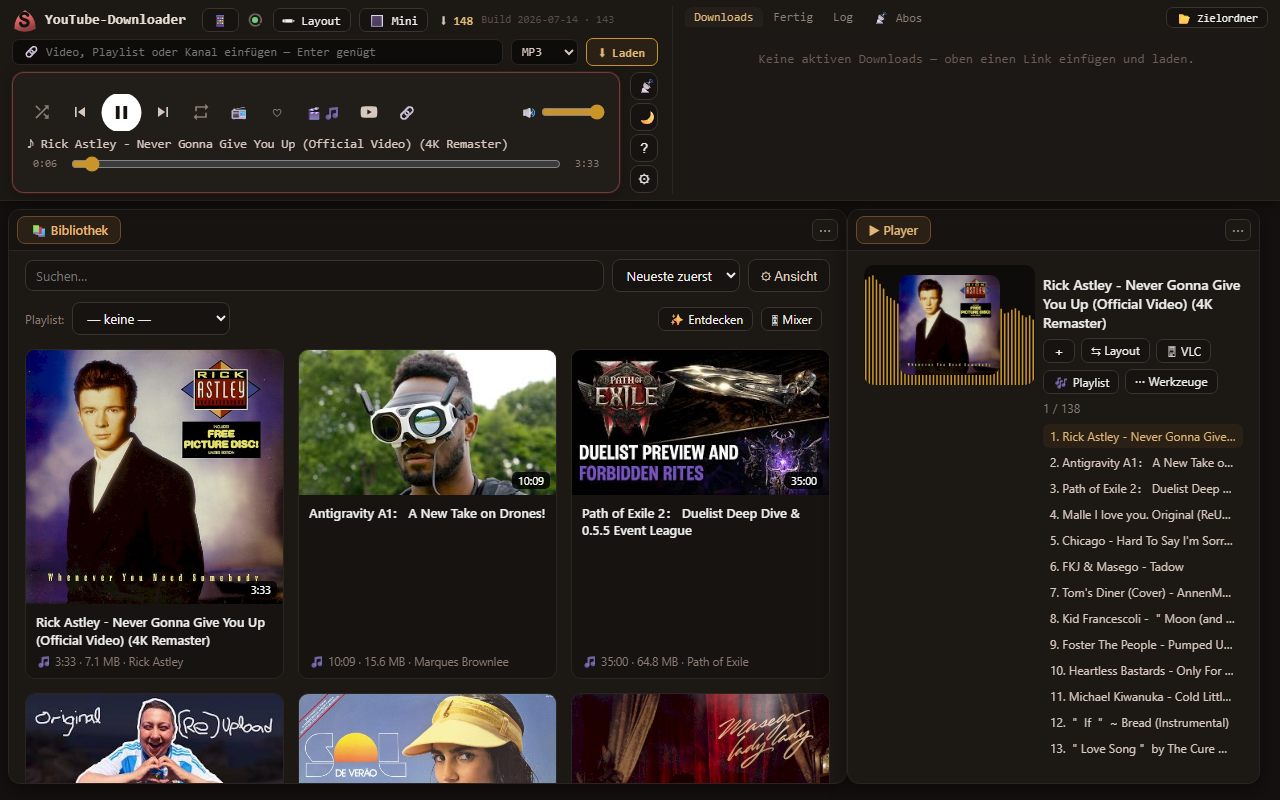
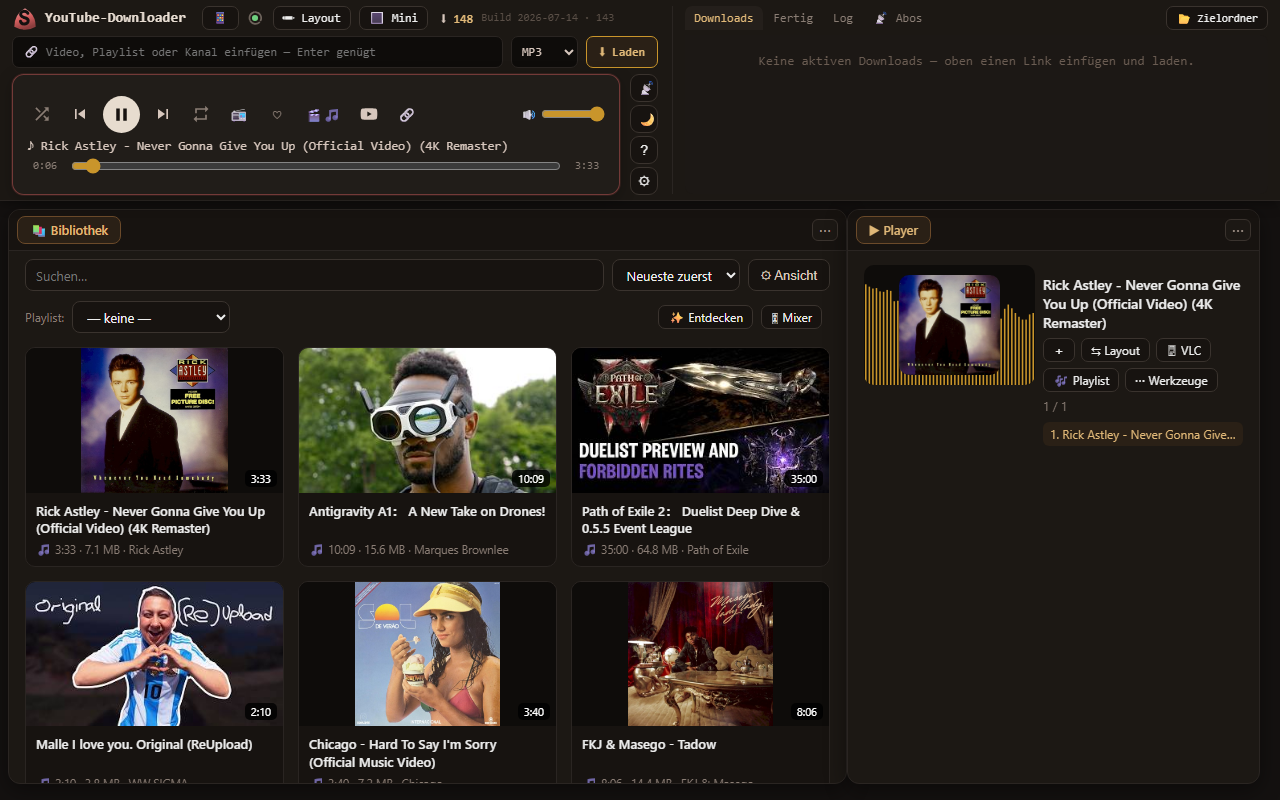
Einheitliche Groessen: Kacheln, Titel und Bedienelemente
JB am Screenshot: "wieso haben nicht alle videos die gleiche hoehe? Wieso
sind einige tooltips groesser als andere? Einheitlichkeit ist super wichtig!"

GEMESSEN mit Playwright gegen die laufende App, bevor etwas geaendert wurde:
Kachelbilder waren 142 ODER 250 px hoch, Titel 17 ODER 34 px, und 32
Bedienelemente hatten ELF verschiedene Hoehen (20 bis 37 px).

URSACHE bei den Kacheln: das aspect-ratio:16/9 am Bildrahmen hat nie
gegriffen. Die Kachel ist ein Spalten-Flex, ihre Kinder haben damit
min-height:auto, und ein quadratisches Album-Bild gewinnt gegen das
Seitenverhaeltnis. Die 16:9-Vorschaubilder sahen nur richtig aus, weil ihre
eigene Form zufaellig passte - der Fehler war immer da, nur unsichtbar.
flex:none + min-height:0 geben dem Seitenverhaeltnis die Entscheidung zurueck.

URSACHE bei den Bedienelementen: die Hoehe entstand aus Polsterung plus
Zeilenhoehe statt gesetzt zu sein, deshalb unterschieden sich nebeneinander
liegende Knoepfe um einen Pixel. Jetzt zwei Tokens (--pille-h 24,
--feld-h 32) und fuenf bewusste Gruppen statt elf zufaelliger.

DANACH gemessen: Bilder alle 142, Titel alle 34, Kacheln alle 217 px.

Waechter test_einheitliche_groessen prueft die Quelle (browserfrei, laeuft im
Gate mit). Vier rote Gegenproben gefahren, Datei jeweils byte-genau
zurueckgeschrieben. Die erste Gegenprobe war GRUEN, obwohl die Zusage weg
war: der Waechter las den erklaerenden Kommentar INNERHALB der Regel als
Deklaration. Deshalb schneidet er Kommentare jetzt heraus.
[…]

diff --git a/System/tests/test_einheitliche_groessen.py b/System/tests/test_einheitliche_groessen.py
@@ -1,0 +1,154 @@
+# -*- coding: utf-8 -*-
+"""Waechter: gleiche Dinge sind gleich gross (JB 08.09.2026).
+
+JB am Screenshot: *»wieso haben nicht alle videos die gleiche hoehe? Wieso sind
+einige tooltips groesser als andere? Einheitlichkeit ist super wichtig!«*
+
+GEMESSEN im laufenden Programm, bevor etwas geaendert wurde:
+  * Kachelbilder 142 px ODER 250 px hoch — ein quadratisches Album-Bild machte die
+    Kachel 108 px hoeher als ein 16:9-Vorschaubild. Das `aspect-ratio:16/9` am
+    Rahmen hat NIE gegriffen: `.kachel` ist ein Spalten-Flex, seine Kinder haben
+    damit `min-height:auto`, und der Inhalt gewinnt gegen das Seitenverhaeltnis.
+    Die 16:9-Bilder sahen nur richtig aus, weil ihre eigene Form zufaellig passte.
+  * Kacheltitel 17 px ODER 34 px — ohne Mindesthoehe rutscht die Infozeile je nach
+    Titellaenge um eine Zeile.
+  * 32 sichtbare Bedienelemente in ELF Hoehen: 20, 21, 22, 24, 25, 26, 28, 30, 31,
+    33, 37 px. Nebeneinander liegende Knoepfe unterschieden sich um einen Pixel,
+    weil die Hoehe aus Polsterung plus Zeilenhoehe entstand statt gesetzt zu sein.
+
+Danach: Bilder alle 142, Titel alle 34, Kacheln alle 217 px; Bedienelemente in fuenf
+Gruppen, und die fuenf sind Absicht (Pillen 24, Panel-Reiter 28, Transport 30 und 37
+fuer den Abspiel-Knopf, Bedienzeile 32).
+
+Geprueft wird hier die QUELLE, nicht das Erzeugnis: ein Waechter, der den Browser
+braucht, liefe im Gate nicht mit. Die Zahlen oben stammen aus einer echten Messung
+mit Playwright gegen die laufende App.
+
+ROTE GEGENPROBE (08.09.2026, jede an der echten Datei gefahren und byte-genau
+zurueckgeschrieben - Pruefsumme vorher/nachher gleich):
+  * `flex:none;min-height:0` aus `.thumbwrap` entfernt  => Bild-Test faellt
+  * `min-height:2.64em` aus `.ktitel` entfernt          => Titel-Test faellt
+  * `height:33px` in `.tog` zurueckgeschrieben          => Token-Test faellt
+  * Token `--feld-h` geloescht                          => Token-Existenz faellt
+Die erste Fassung dieser Gegenprobe war GRUEN, obwohl die Zusage weg war: der
+Waechter las den erklaerenden Kommentar INNERHALB der Regel als Deklaration.
+Siehe `_ohne_kommentar` - ein Waechter, der die Erklaerung statt der Sache prueft,
+meldet Gesundheit, die es nicht gibt.
+"""
+import os
+import re
+
+HIER = os.path.dirname(os.path.abspath(__file__))
+OBERFLAECHE = os.path.join(os.path.dirname(HIER), "oberflaeche.py")
+
+# Klassen, deren Hoehe aus den Tokens kommen MUSS. Wer hier eine feste Pixelhoehe
+# einträgt, baut die naechste Ungleichheit.
+TOKEN_PFLICHT = (".tog", ".cmd-dl", ".cmd-qual", ".cmd-url", ".btn.mini",
+                 ".dlbox-tab", "#libsuche", "#libsort", "#plsel")
+
+
+def _quelle() -> str:
+    with open(OBERFLAECHE, encoding="utf-8") as f:
+        return f.read()
+
+
+def _ohne_kommentar(rumpf):
+    """Nur die Deklarationen einer Regel - Kommentare heraus.
+
+    Die dritte Gegenprobe war GRUEN, obwohl ich `min-height:0` aus `.thumbwrap`
+    entfernt hatte: der erklaerende Kommentar steht INNERHALB der geschweiften
+    Klammern und schreibt »min-height:0 und flex:none geben dem Seitenverhaeltnis
+    die Entscheidung zurueck«. Der Waechter las meinen eigenen Fliesstext als
+    Zusage. Ein Waechter, der die Erklaerung statt der Sache prueft, ist blind.
+    """
+    return re.sub(r"/\*.*?\*/", "", rumpf, flags=re.S)
+
+
+def _selektor(roh):
+    """Der reine Selektor einer Regel - ohne den Kommentar, der davor steht.
+
+    Der Regel-Ausdruck laesst im Selektor Zeilenumbrueche zu (mehrzeilige
+    Selektorlisten gibt es wirklich). Damit wandert aber auch ein `/* ... */`
+    ueber der Regel in den Selektor, und der exakte Vergleich schlaegt fehl:
+    `.ktitel` hiess fuer den Waechter `/* Immer zwei Zeilen hoch ... */ .ktitel`.
+    Gefunden hat das erst die Messung, welche Selektoren wirklich ankommen.
+    """
+    return roh.split("*/")[-1].strip()
+
+
+def _regel(text, klasse):
+    """Der Rumpf der GRUNDREGEL dieser Klasse - der Regel, deren Selektor genau sie ist.
+
+    Drei Fallen lagen hier hintereinander, jede fand erst eine Messung:
+
+    1. Teilstring statt Wortgrenze: die erste Fassung suchte `".ktitel" in selektor`
+       und traf `#tv .tv-ktitel` aus dem Fernsehmodus - sie pruefte die falsche
+       Regel und meldete einen Mangel, den es nicht gab.
+    2. Erste statt Grund-Regel: danach traf sie `.kacheln.kompakt .ktitel`, weil die
+       Kompakt-Ansicht frueher in der Datei steht. Diese Regel setzt nur eine
+       Schriftgroesse; die Hoehen-Zusagen stehen in der Grundregel weiter unten.
+    3. Kommentar im Selektor: siehe `_selektor`.
+
+    Deshalb: erst die Regel mit dem exakt gleichen Selektor, sonst die erste, die
+    die Klasse ueberhaupt wortgenau traegt.
+    """
+    muster = re.compile(r"(?<![\w.#-])" + re.escape(klasse) + r"(?![\w-])")
+    passend = [(_selektor(tr.group(1)), _ohne_kommentar(tr.group(2)))
+               for tr in re.finditer(r"([^{}\n][^{}]*)\{([^}]*)\}", text)
+               if muster.search(tr.group(1))]
+    for selektor, rumpf in passend:
+        if selektor == klasse:
+            return rumpf
+    return passend[0][1] if passend else ""
+
+
+def test_die_groessen_tokens_gibt_es():
+    """Zwei Groessen, an einer Stelle definiert — nicht elf ueber die Datei verstreut."""
+    t = _quelle()
+    assert "--pille-h:" in t, "Token fuer die Pillen-Hoehe fehlt"
+    assert "--feld-h:" in t, "Token fuer die Feld-Hoehe fehlt"
+
+
+def test_kachelbild_haelt_sein_seitenverhaeltnis():
+    """`aspect-ratio` allein genuegt im Flex-Kind NICHT — min-height:0 muss dazu."""
+    rumpf = _regel(_quelle(), ".thumbwrap")
+    assert "aspect-ratio" in rumpf, ".thumbwrap braucht ein Seitenverhaeltnis"
+    assert "min-height:0" in rumpf.replace(" ", ""), (
+        "Ohne min-height:0 gewinnt der Bildinhalt gegen das Seitenverhaeltnis — "
+        "quadratische Album-Bilder machen die Kachel dann 108 px hoeher")
+    assert "flex:none" in rumpf.replace(" ", ""), (
+        "Ohne flex:none darf der Rahmen als Flex-Kind wachsen")
+
+
+def test_kacheltitel_ist_immer_zwei_zeilen_hoch():
+    """Sonst rutscht die Infozeile je nach Titellaenge um eine Zeile."""
+    rumpf = _regel(_quelle(), ".ktitel")
+    assert "-webkit-line-clamp:2" in rumpf.replace(" ", ""), "Titel muss bei zwei Zeilen enden"
+    assert "min-height" in rumpf, (
+        "Ohne Mindesthoehe ist ein einzeiliger Titel 17 px, ein zweizeiliger 34 px")
+
+
+def test_bedienelemente_nutzen_die_groessen_tokens():
+    """Keine feste Pixelhoehe auf den Elementen, die nebeneinander stehen.
+
+    Auto-Discovery: jede Regel der Datei wird angesehen; eine feste `height:NNpx`
+    auf einem der bewachten Selektoren ist der Befund. Handliste waere hier falsch,
+    weil die Datei staendig waechst."""
+    t = _quelle()
+    schuldige = []
+    for treffer in re.finditer(r"([^{}\n][^{}]*)\{([^}]*)\}", t):
+        sel = _selektor(treffer.group(1))
+        rumpf = _ohne_kommentar(treffer.group(2)).replace(" ", "")
+        if "::" in sel:
+            continue                    # Pseudo-Elemente sind Striche und Punkte,
+                                        # keine Bedienelemente — ein 4-px-Indikator
+                                        # unter dem Umschalter hat mich zuerst erwischt
+        if not any(re.search(r"(?<![\w.#-])" + re.escape(k) + r"(?![\w-])", sel)
+                   for k in TOKEN_PFLICHT):
+            continue
+        feste = re.search(r"(?<!min-)(?<!max-)height:(\d+)px", rumpf)
+        if feste:
+            schuldige.append(f"{sel[:60]} -> height:{feste.group(1)}px")
+    assert not schuldige, (
+        "Diese Regeln setzen wieder eine eigene Hoehe statt --pille-h/--feld-h:\n  "
+        + "\n  ".join(schuldige))

diff --git a/System/oberflaeche.py b/System/oberflaeche.py
@@ -46,7 +46,7 @@ HTML = """<!doctype html>
 *{box-sizing:border-box}
 /* Farbwelt als Variablen — ein „Look" setzt nur diese um (Standard = Terracotta).
    So bleibt das Standard-Aussehen exakt gleich, neue Looks tönen alles konsistent. */
-:root{--akz:#c9952b;--akz2:#e0b878;--akzbg:#2a2016;--head:#d67756;--bg:#141110;--panel:#1c1814;--panelln:#2a2522}
+:root{--pille-h:24px;--feld-h:32px;--akz:#c9952b;--akz2:#e0b878;--akzbg:#2a2016;--head:#d67756;--bg:#141110;--panel:#1c1814;--panelln:#2a2522}
 html.theme-hacker{--akz:#37f000;--akz2:#8dff6a;--akzbg:#0f2410;--head:#37f000;--bg:#060a06;--panel:#0b140b;--panelln:#18391b}
 html.theme-neon{--akz:#ff3ad6;--akz2:#79f5ff;--akzbg:#251236;--head:#ff3ad6;--bg:#0a0812;--panel:#140f22;--panelln:#2c2047}
 html.theme-ozean{--akz:#2ba6ff;--akz2:#7ad4ff;--akzbg:#0e2740;--head:#3ec2ff;--bg:#060e18;--panel:#0b1a2b;--panelln:#153450}
@@ -743,6 +743,23 @@ select,input[type=text]{background:#171310;border:1px solid #3a332e;border-radiu
 .btn.haupt{border-color:#6b4a2a;background:var(--akzbg);color:var(--akz2);font-weight:600}
 .btn.haupt:hover{border-color:var(--akz)}
 .btn.mini{padding:3px 9px;font-size:12px;border-radius:7px}
+
+/* GROESSEN-SYSTEM (JB 08.09.2026: »Einheitlichkeit ist super wichtig!«)
+   GEMESSEN vorher: 32 sichtbare Bedienelemente in ELF verschiedenen Hoehen
+   (20, 21, 22, 24, 25, 26, 28, 30, 31, 33, 37 px) — nebeneinanderliegende
+   Knoepfe unterschieden sich teils um einen einzigen Pixel, weil die Hoehe aus
+   Polsterung plus Zeilenhoehe entstand statt gesetzt zu sein.
+   Jetzt zwei Groessen: `--pille-h` fuer alles, was IN einer Flaeche sitzt
+   (Reiter, Mini-Knoepfe, Marken), `--feld-h` fuer die Bedienzeile (Eingabefeld,
+   Auswahl, Laden-Knopf, Umschalter). Nur die HOEHE wird gesetzt, die seitliche
+   Polsterung bleibt: die Stufen der Player-Leiste rechnen mit Kinder-BREITEN,
+   die duerfen sich nicht verschieben. */
+.btn.mini,.dlbox-tab,.chip,.dlbox-action{
+  height:var(--pille-h);padding-top:0;padding-bottom:0;
+  display:inline-flex;align-items:center;justify-content:center;line-height:1}
+.tog,.cmd-dl,.cmd-qual,.cmd-url{
+  height:var(--feld-h);padding-top:0;padding-bottom:0;line-height:1}
+.tog,.cmd-dl{display:inline-flex;align-items:center;justify-content:center}
 .chips{display:flex;gap:8px;flex-wrap:wrap;margin:10px 0 2px}
 .chip{padding:3px 11px;border-radius:999px;font-size:12px;border:1px solid #3a332e;background:#171310;color:#d7c7bd}
 .chip b{font-weight:600}
@@ -797,10 +814,13 @@ details.einst summary:hover{color:var(--akz)}
 .libhead{position:sticky;top:0;z-index:30;background:var(--panel);padding-top:8px;margin-top:0}
 .libbar{display:flex;gap:8px;flex-wrap:wrap;align-items:center;margin-bottom:14px}
 #libsuche{flex:1;min-width:130px}
+/* Eine Zeile, eine Hoehe (JB 08.09.): Suchfeld, Sortierung, Playlist-Wahl und der
+   Ansicht-Knopf standen mit 31, 33, 33 und 33 px nebeneinander. */
+#libsuche,#libsort,#plsel{height:var(--feld-h);padding-top:0;padding-bottom:0}
 .libbar .spacer{flex:1}
 .chk{display:flex;align-items:center;gap:6px;font-size:12px;color:#8a7d74;cursor:pointer;white-space:nowrap}
 .viewbtn{width:36px;height:33px;border-radius:8px;border:1px solid #3a332e;background:#171310;color:#d7c7bd;cursor:pointer;font-size:16px}
-.tog{height:33px;padding:0 12px;border-radius:8px;border:1px solid #3a332e;background:#171310;color:#d7c7bd;cursor:pointer;font-size:13px}
+.tog{height:var(--feld-h);padding:0 12px;border-radius:8px;border:1px solid #3a332e;background:#171310;color:#d7c7bd;cursor:pointer;font-size:13px}
 .viewbtn.an,.tog.an{border-color:var(--akz);color:var(--akz2);background:var(--akzbg)}
 .viewbtn:hover,.tog:hover{border-color:var(--akz)}
 .tog:disabled{opacity:.6;cursor:default}
@@ -816,11 +836,21 @@ details.einst summary:hover{color:var(--akz)}
 .kachel.sel::before{content:'✓';position:absolute;left:6px;top:6px;z-index:3;width:20px;height:20px;
   border-radius:5px;background:var(--akz);color:#1a1512;font-size:13px;font-weight:700;
   display:flex;align-items:center;justify-content:center}
-.thumbwrap{position:relative;aspect-ratio:16/9;background:#0e0c0a;cursor:pointer}
+.thumbwrap{position:relative;aspect-ratio:16/9;background:#0e0c0a;cursor:pointer;
+  /* JB 08.09.2026: »wieso haben nicht alle videos die gleiche hoehe?« — GEMESSEN:
+     Das aspect-ratio hat nie gegriffen. Die Kachel ist ein Spalten-Flex, ihre Kinder
+     haben damit min-height:auto, und ein quadratisches Album-Bild (500x500) macht den
+     Rahmen 250 px hoch statt 142. Die 16:9-Vorschaubilder sahen nur deshalb richtig
+     aus, weil ihre eigene Form zufaellig passte. min-height:0 und flex:none geben dem
+     Seitenverhaeltnis die Entscheidung zurueck. */
+  flex:none;min-height:0;overflow:hidden}
 .thumbwrap::before{content:'▶';position:absolute;inset:0;z-index:2;display:flex;align-items:center;justify-content:center;
   color:#fff;font-size:26px;opacity:0;transition:opacity .12s;text-shadow:0 2px 8px rgba(0,0,0,.7);pointer-events:none}
 .thumbwrap:hover::before{opacity:.92}
-.thumb{width:100%;height:100%;object-fit:cover;display:block}
+/* »contain« statt »cover«: ein quadratisches Cover wuerde beim Zuschneiden auf 16:9
+   44 Prozent seiner Flaeche verlieren (Koepfe abgeschnitten). So bleibt es ganz und
+   bekommt schmale dunkle Raender; 16:9-Vorschaubilder fuellen weiterhin exakt. */
+.thumb{width:100%;height:100%;object-fit:contain;display:block}
 .thumbwrap.platzhalter::after{content:'▶';position:absolute;inset:0;display:flex;align-items:center;justify-content:center;color:#3a332e;font-size:34px}
 .kdauer{position:absolute;right:6px;bottom:6px;background:rgba(0,0,0,.8);color:#fff;font-size:11px;padding:1px 6px;border-radius:5px}
 .wegbadge{position:absolute;left:6px;top:6px;background:rgba(0,0,0,.78);color:#f0a35e;font-size:11px;padding:1px 7px;border-radius:5px;border:1px solid #6b4a2a}
@@ -828,7 +858,9 @@ details.einst summary:hover{color:var(--akz)}
 .clip-schere{position:absolute;right:6px;top:6px;background:rgba(0,0,0,.8);color:var(--akz2);font-size:12px;line-height:1;padding:3px 5px;border-radius:6px;border:1px solid var(--akz)}
 .clip-row .clip-schutz{cursor:default}
 .kbody{padding:9px 10px;display:flex;flex-direction:column;gap:6px;flex:1}
-.ktitel{font-size:13px;font-weight:600;line-height:1.32;display:-webkit-box;-webkit-line-clamp:2;-webkit-box-orient:vertical;overflow:hidden}
+/* Immer zwei Zeilen hoch, auch bei kurzem Titel: sonst rutscht die Infozeile je
+   Kachel um 17 px, und die Kachelwand wirkt unruhig (JB 08.09.). */
+.ktitel{font-size:13px;font-weight:600;line-height:1.32;display:-webkit-box;-webkit-line-clamp:2;-webkit-box-orient:vertical;overflow:hidden;min-height:2.64em}
 .kinfo{font-size:11.5px;color:#8a7d74;white-space:nowrap;overflow:hidden;text-overflow:ellipsis;margin-top:auto}
 /* Build 116 (JB, „zu viele Knöpfe"): Kachel-Aktionen ruhen, bis die Maus
    auf der Kachel ist (oder sie den Tastatur-Fokus hat / ausgewählt ist).
